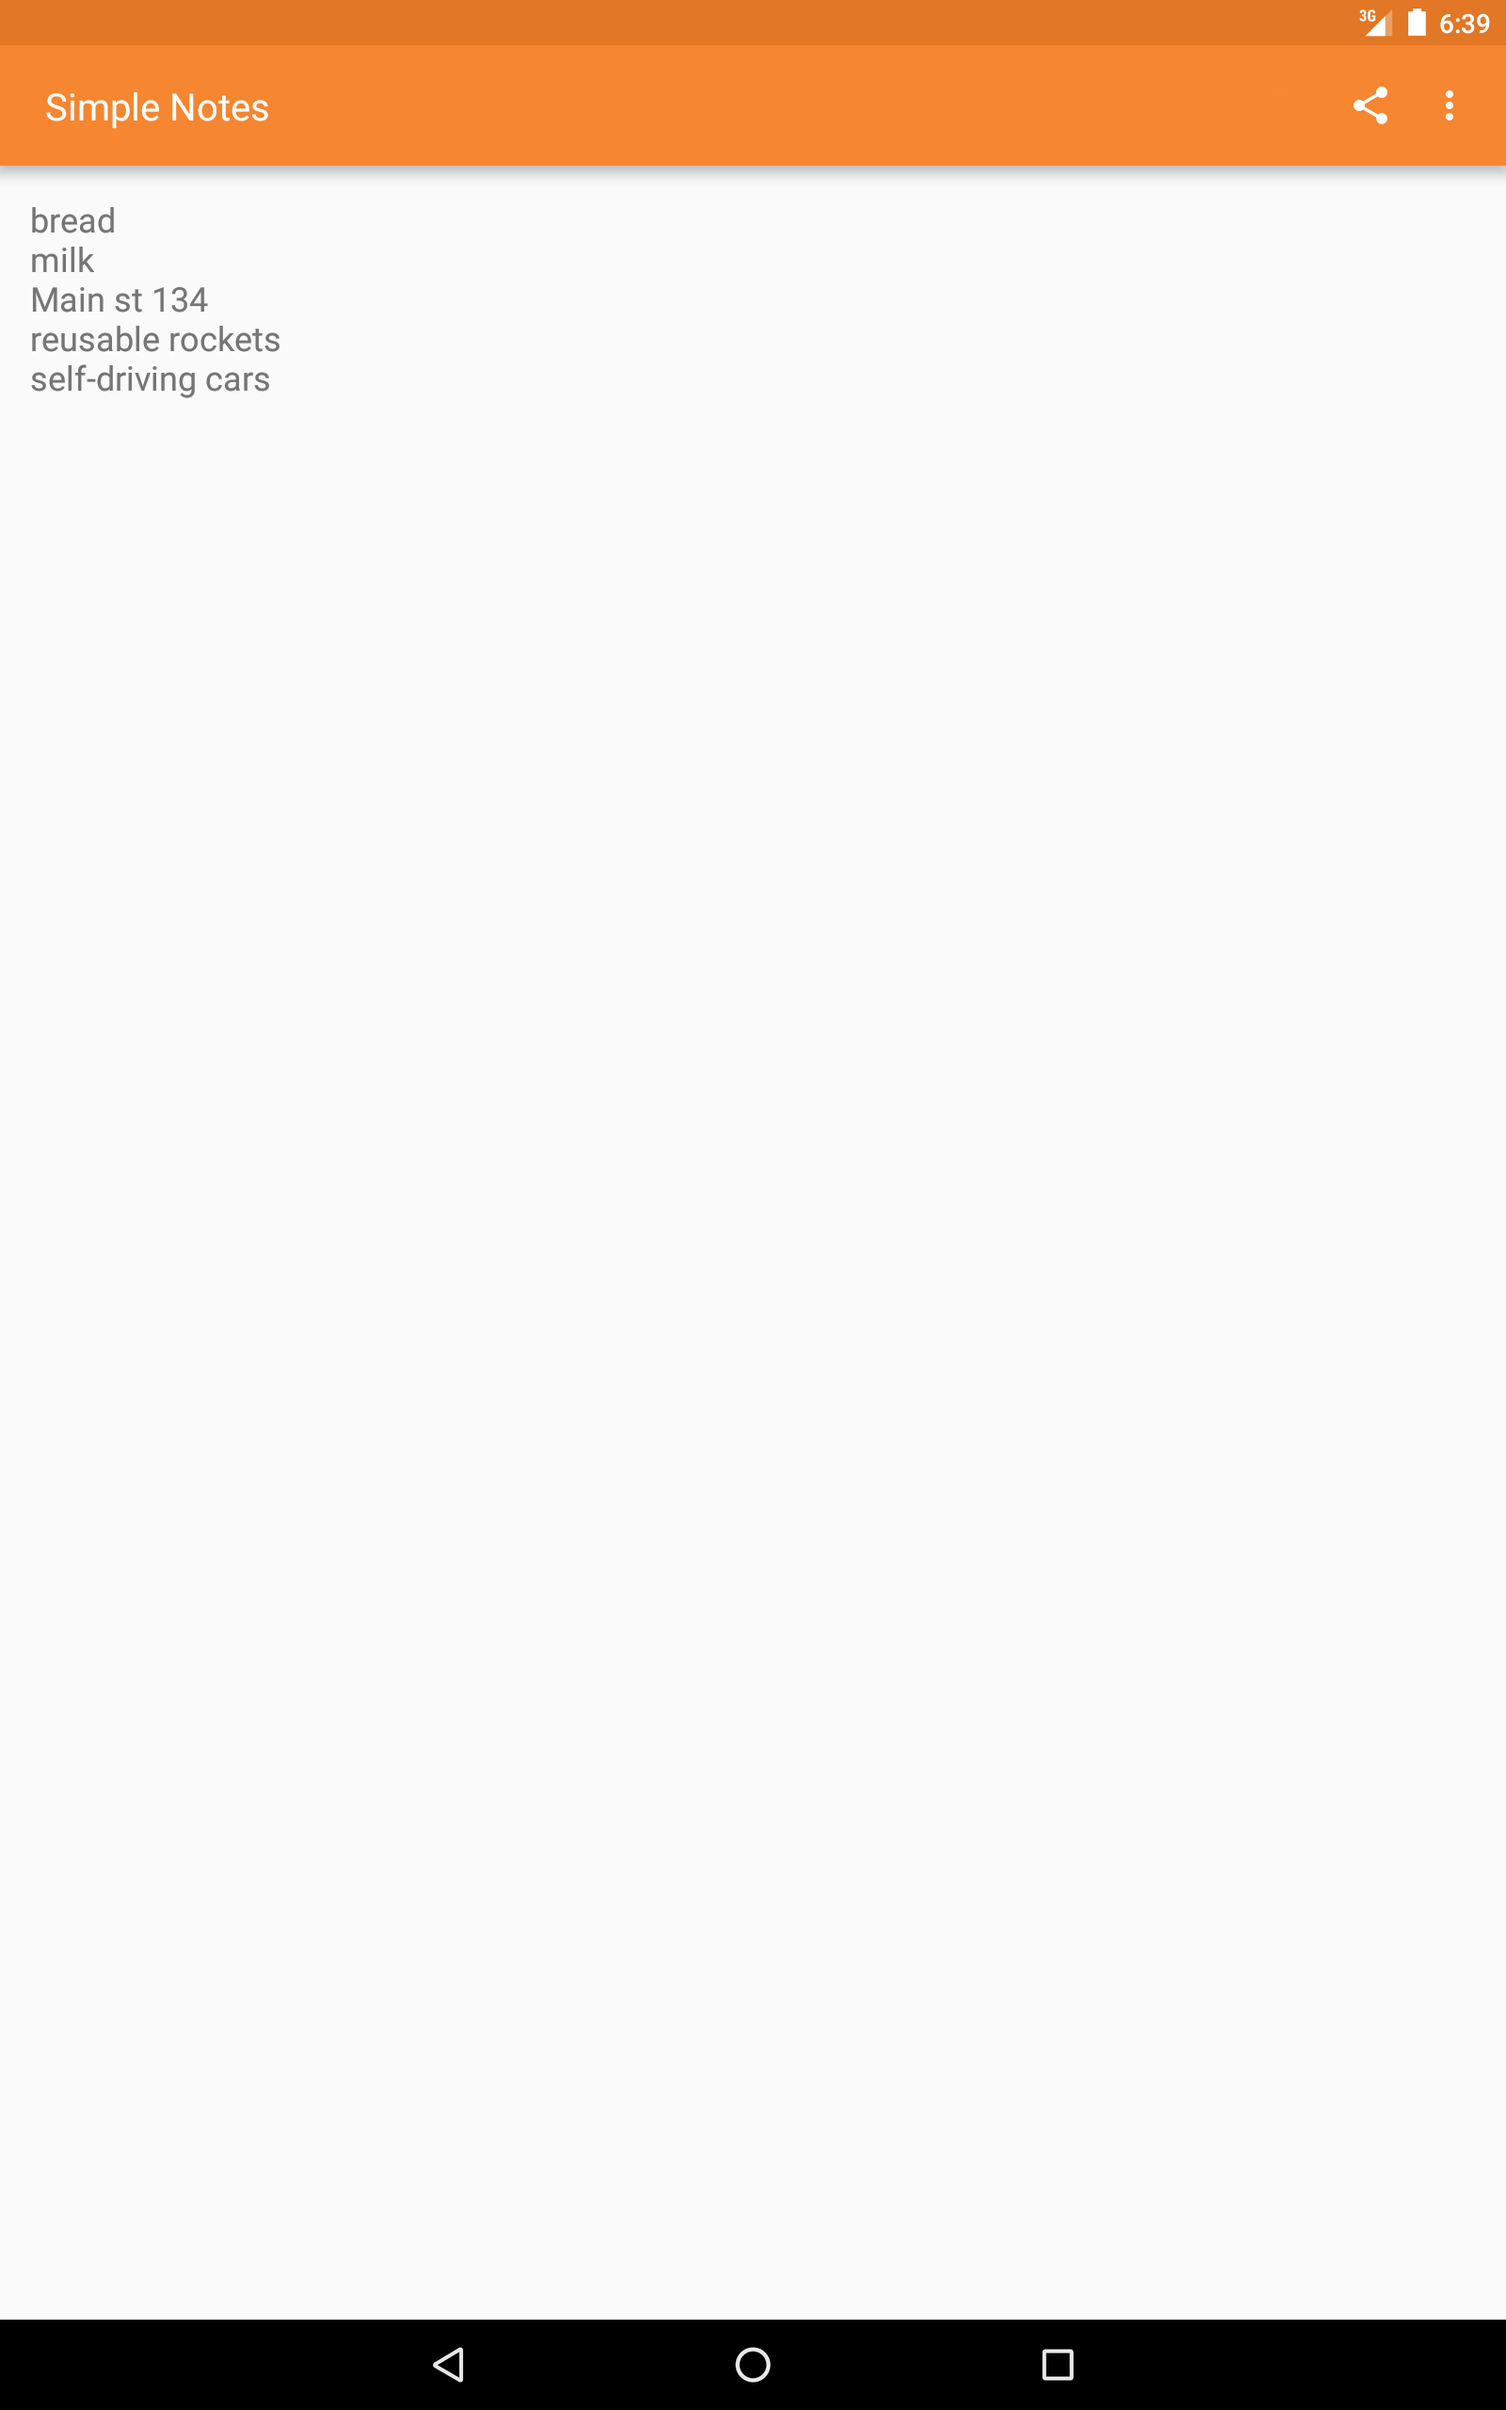
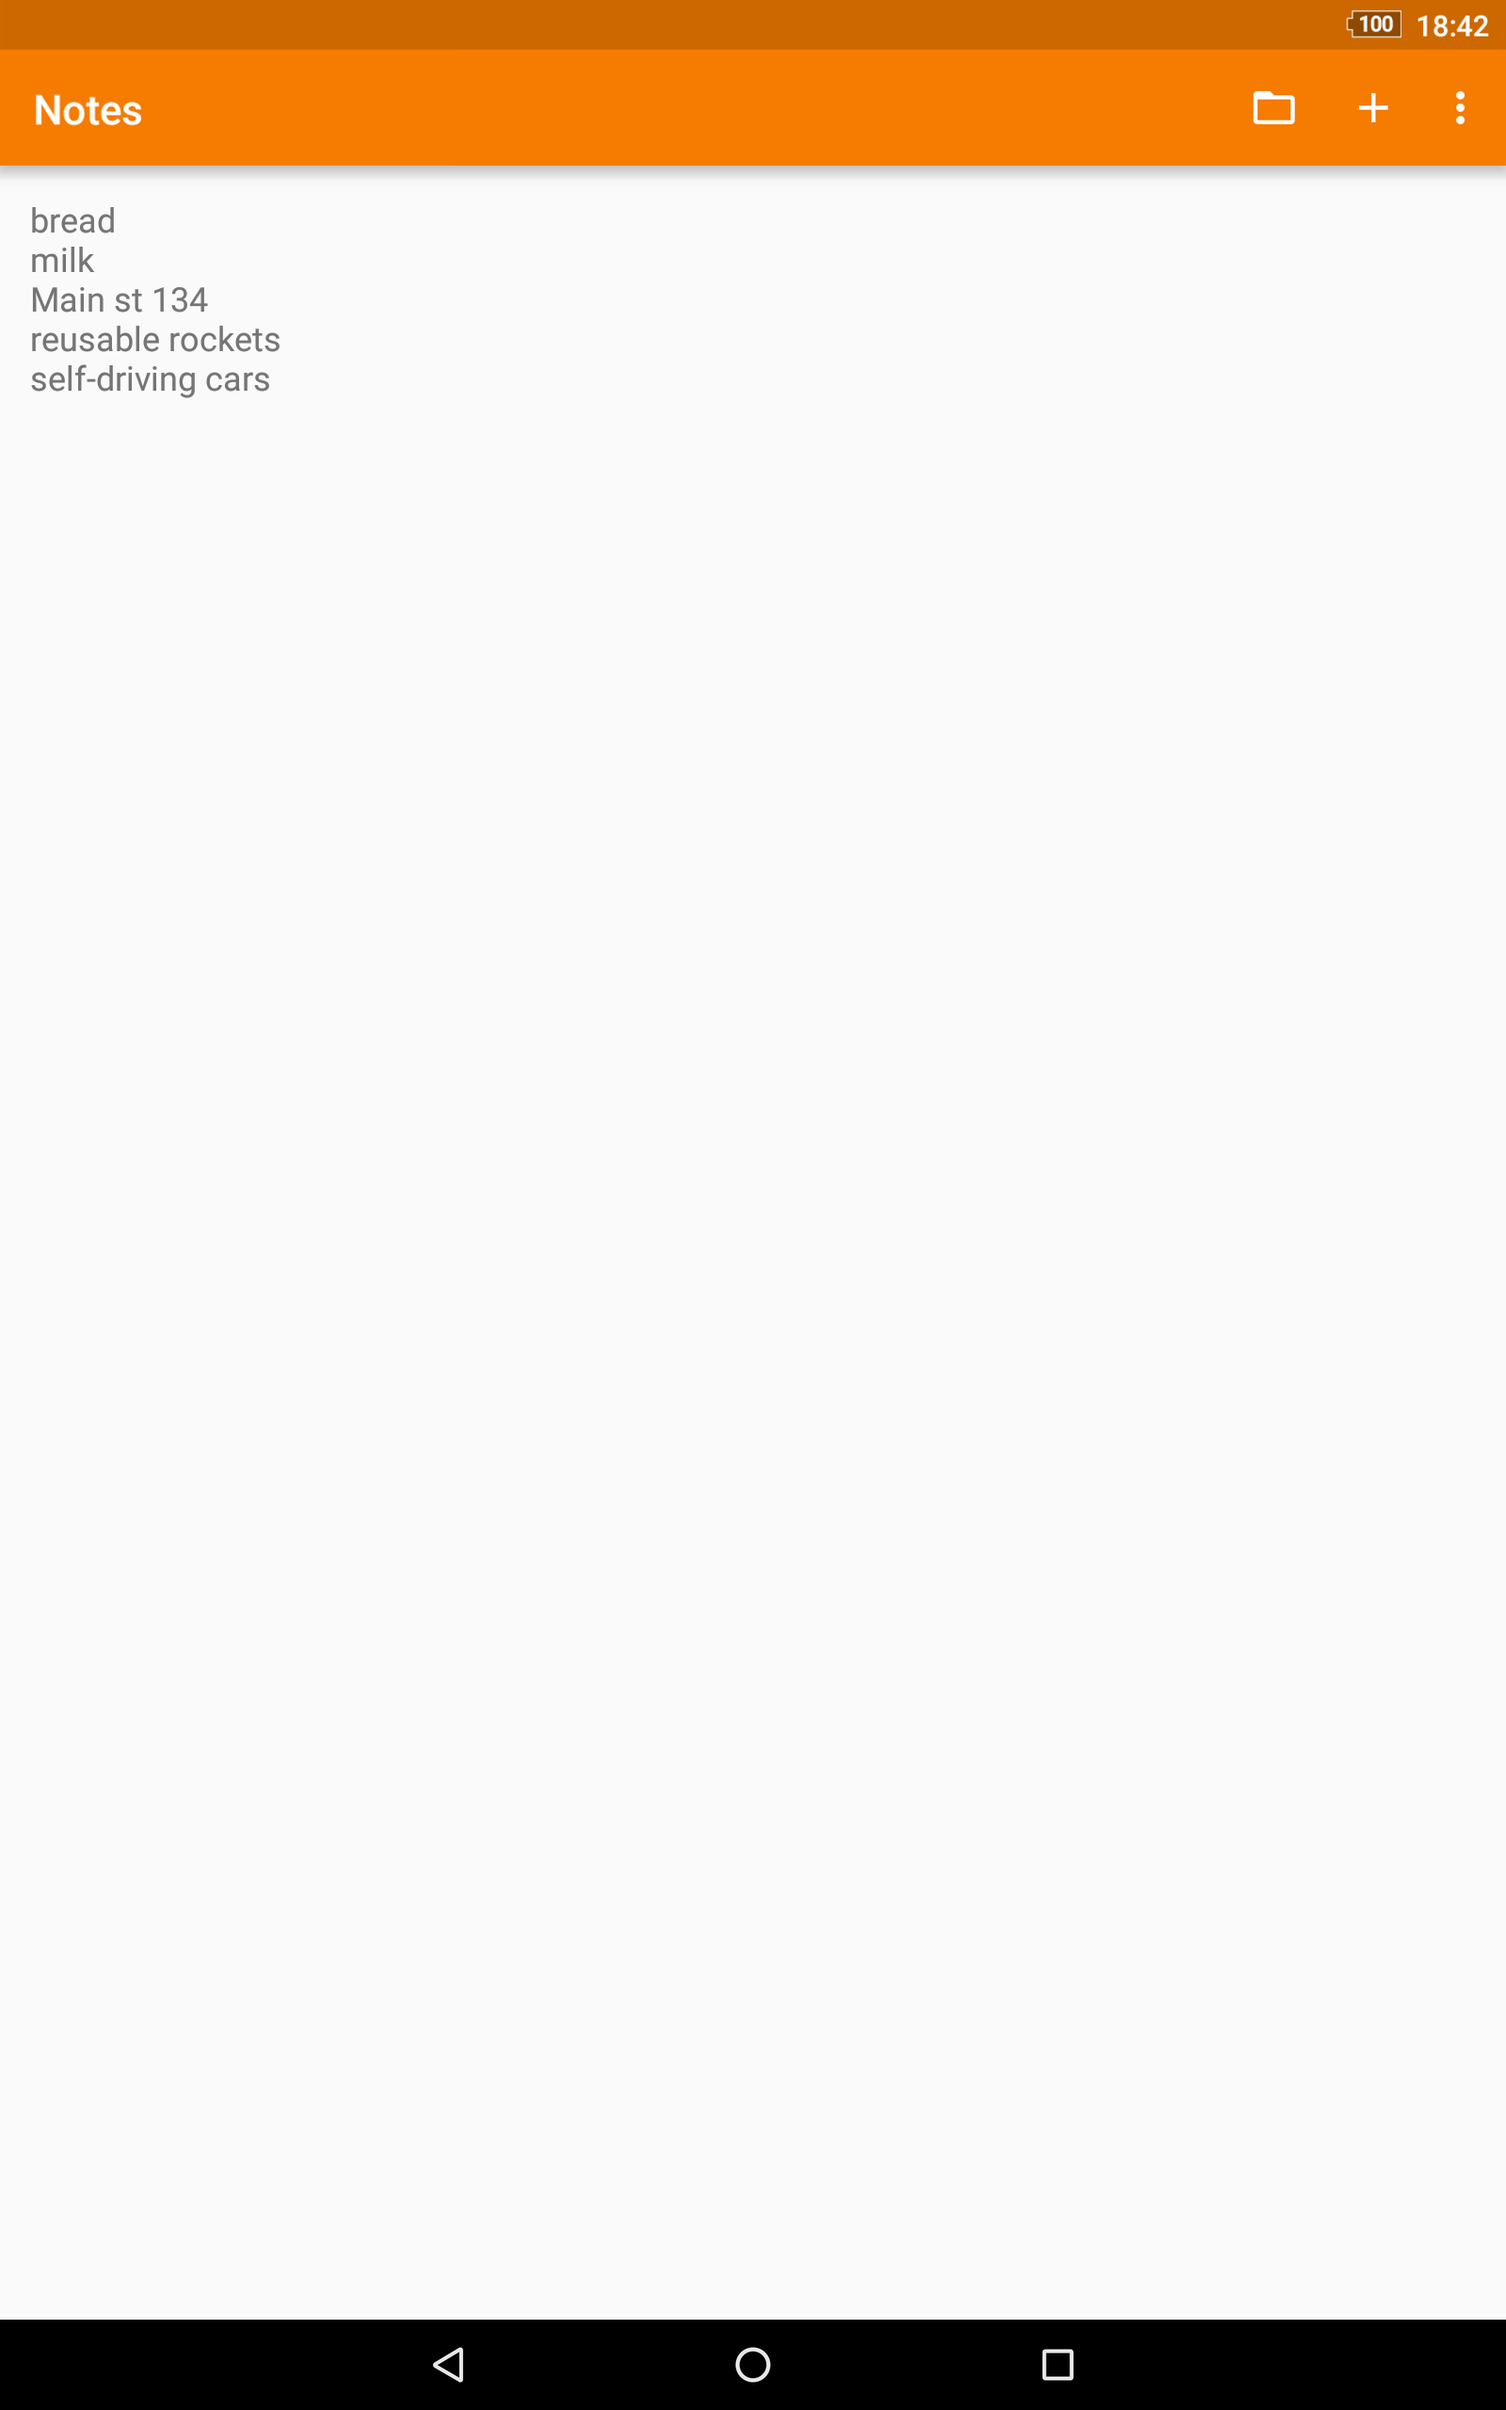
updating screenshots

Changed region(s): [[0.0, 0.0, 1.0, 0.0938]]

diff --git a/README.md b/README.md
@@ -14,9 +14,11 @@ This app is just one piece of a bigger series of apps. You can find the rest of 
 <a href='https://play.google.com/store/apps/details?id=com.simplemobiletools.notes'><img src='http://simplemobiletools.github.io/assets/public/google-play.png' alt='Get it on Google Play' height=45/></a>
 <a href='https://f-droid.org/app/com.simplemobiletools.notes'><img src='http://simplemobiletools.github.io/assets/public/f-droid.png' alt='Get it on F-Droid' height=45 ></a>
 
-<img alt="App image" src="screenshots/app.png" width="250">
-<img alt="App image" src="screenshots/widget_config.png" width="250">
-<img alt="App image" src="screenshots/widget.png" width="250">
+<div style="display:flex;">
+<img alt="App image" src="screenshots/app.png" width="30%">
+<img alt="App image" src="screenshots/app_2.png" width="30%">
+<img alt="App image" src="screenshots/widget.png" width="30%">
+</div>
 
 License
 -------
